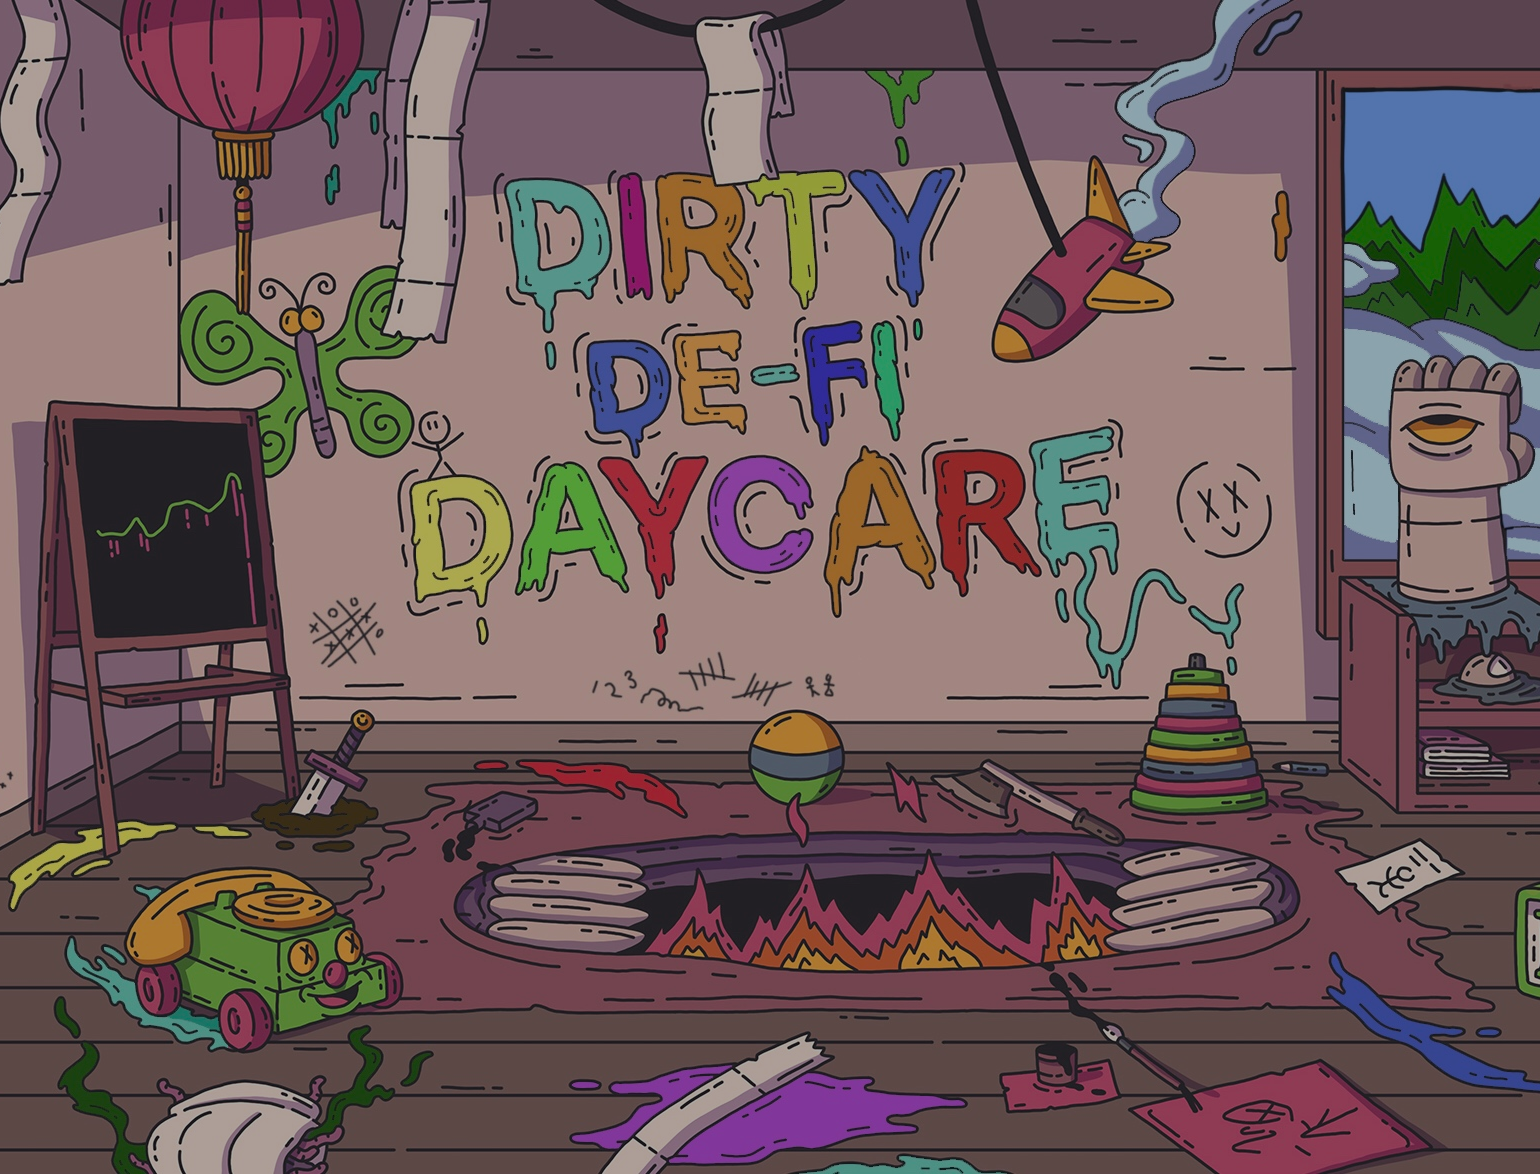
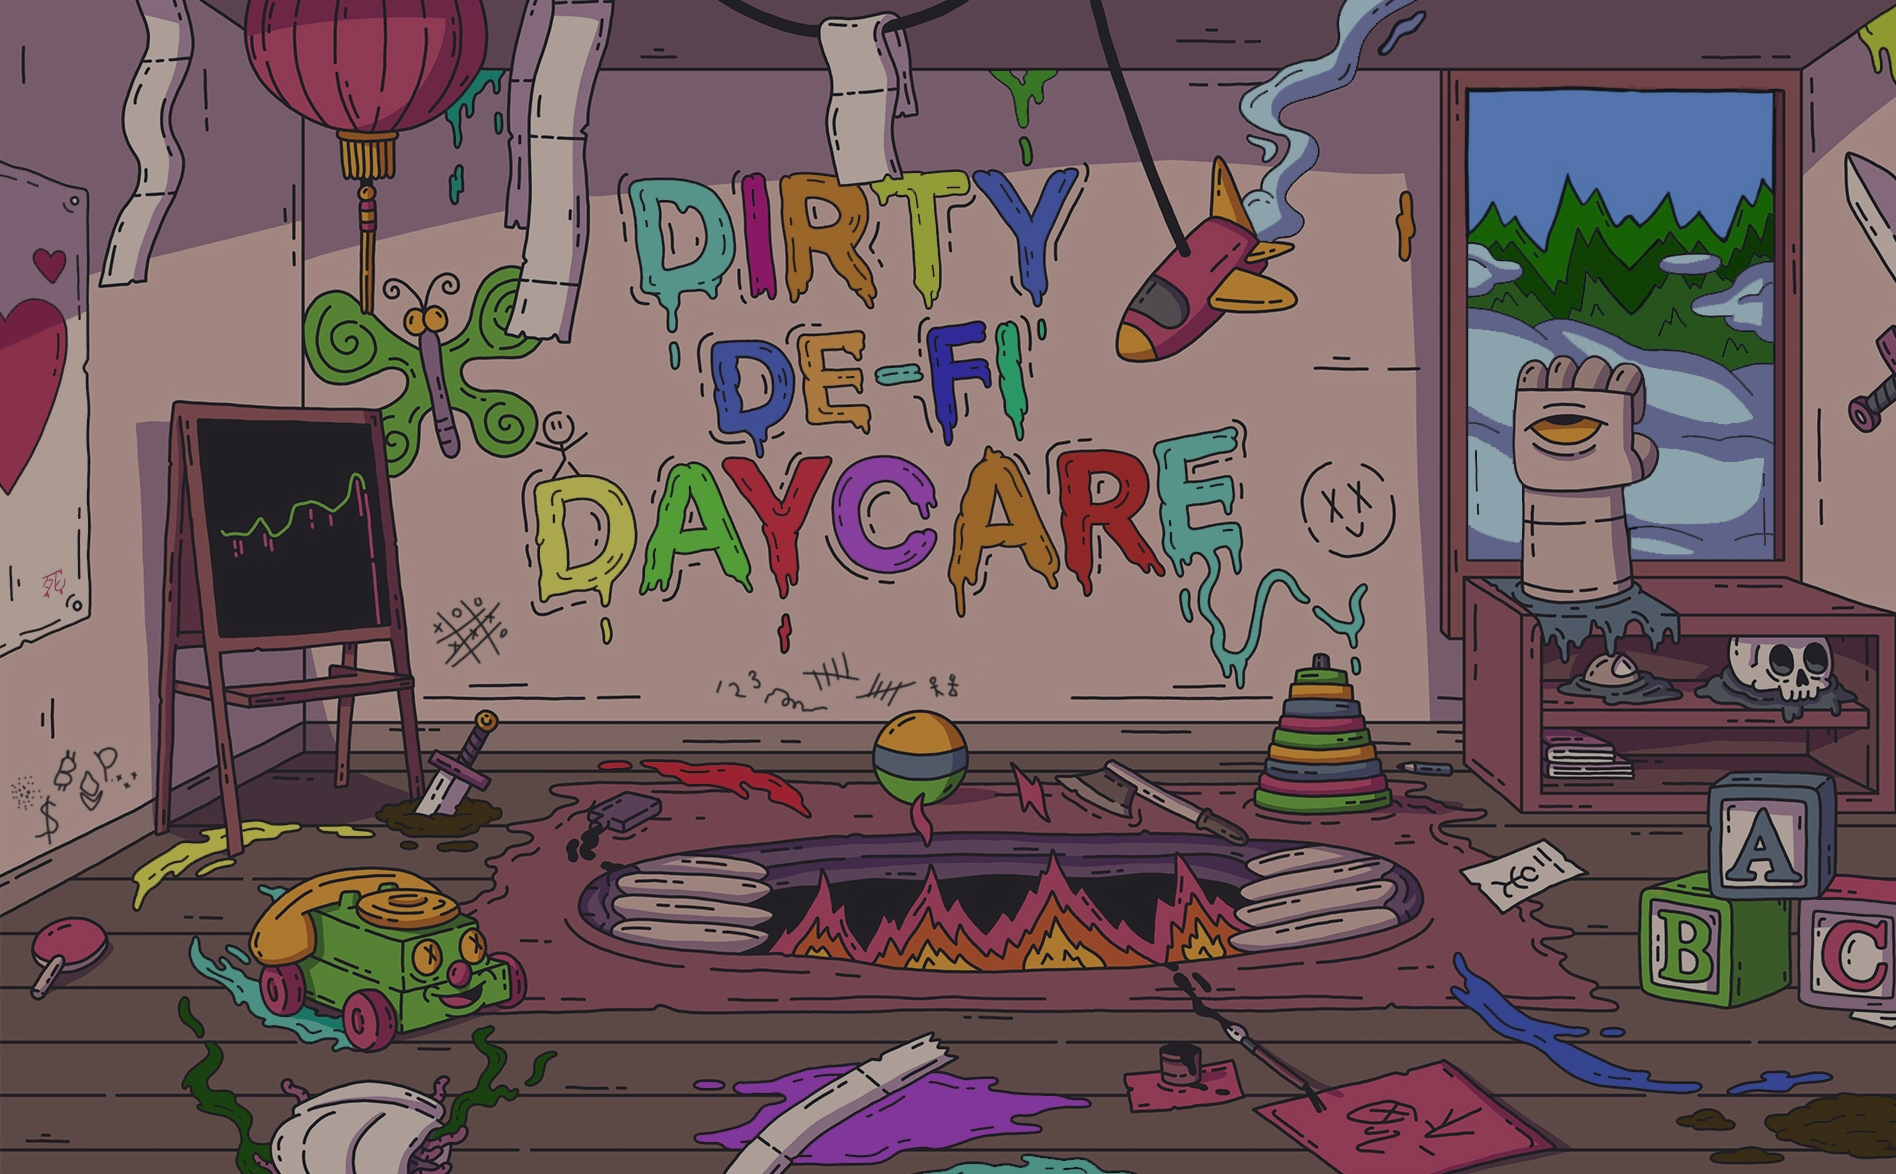
update

diff --git a/src/pages/Claim.js b/src/pages/Claim.js
@@ -11,7 +11,7 @@ import customParseFormat from "dayjs/plugin/customParseFormat";
 dayjs.extend(utc);
 dayjs.extend(customParseFormat);
 
-const Mint = ({
+const Claim = ({
   account,
   mint,
   totalSupply,
@@ -71,7 +71,7 @@ const Mint = ({
     }
   };
   return (
-    <main className="bg-mintPrimary mint-page flex">
+    <main className="bg-mintPrimary mint-page flex claim">
       <div className="container md:px-40 flex-1">
         <Link
           to="/"
@@ -95,12 +95,12 @@ const Mint = ({
             </div>
           </div>
           <div>
-            <MintButton
+            <button
+              className="bg-orange inline-block py-3 px-8  text-2xl uppercase rounded-lg border-2 border-white text-white mt-6"
               onClick={mintHandler}
-              disabled={difference > 0 ? true : false}
             >
               {account ? "Mint" : "Connect"}
-            </MintButton>
+            </button>
           </div>
         </div>
         <div className="flex text-white justify-between text-center text-lg mt-10  w-full max-w-lg mx-auto">
@@ -126,4 +126,4 @@ const Mint = ({
   );
 };
 
-export default Mint;
+export default Claim;

diff --git a/src/App.js b/src/App.js
@@ -10,6 +10,7 @@ import Mint from "./pages/Mint";
 import { BrowserRouter as Router, Switch, Route } from "react-router-dom";
 
 import "react-toastify/dist/ReactToastify.css";
+import Claim from "./pages/Claim";
 toast.configure();
 function App() {
   const [chainId, setChainId] = useState(null);
@@ -186,6 +187,16 @@ function App() {
           <Route path="/" exact component={Home} />
           <Route path="/mint" exact>
             <Mint
+              account={account}
+              mint={mint}
+              totalSupply={totalSupply}
+              displayPrice={displayPrice}
+              loadWeb3={loadWeb3}
+              maxSupply={maxSupply}
+            />
+          </Route>
+          <Route path="/claim" exact>
+            <Claim
               account={account}
               mint={mint}
               totalSupply={totalSupply}

diff --git a/src/sections/HeroSection.js b/src/sections/HeroSection.js
@@ -10,7 +10,9 @@ const HeroSection = () => {
         <Link to="/mint">
           <Button>{"< mint now"}</Button>
         </Link>
-        <Button>{"claim rewards >"}</Button>
+        <Link to="/claim">
+          <Button>{"claim rewards >"}</Button>
+        </Link>
       </div>
     </section>
   );

diff --git a/src/App.css b/src/App.css
@@ -14,7 +14,9 @@
   background-repeat: no-repeat;
   background-size: cover;
 }
-
+.mint-page.claim {
+  background-image: url(./assets/images/Colorful\ sandbox.JPG);
+}
 @media (max-width: 600px) {
   .mint-page {
     background-image: url(./assets/images/dirt-mobile.png);
